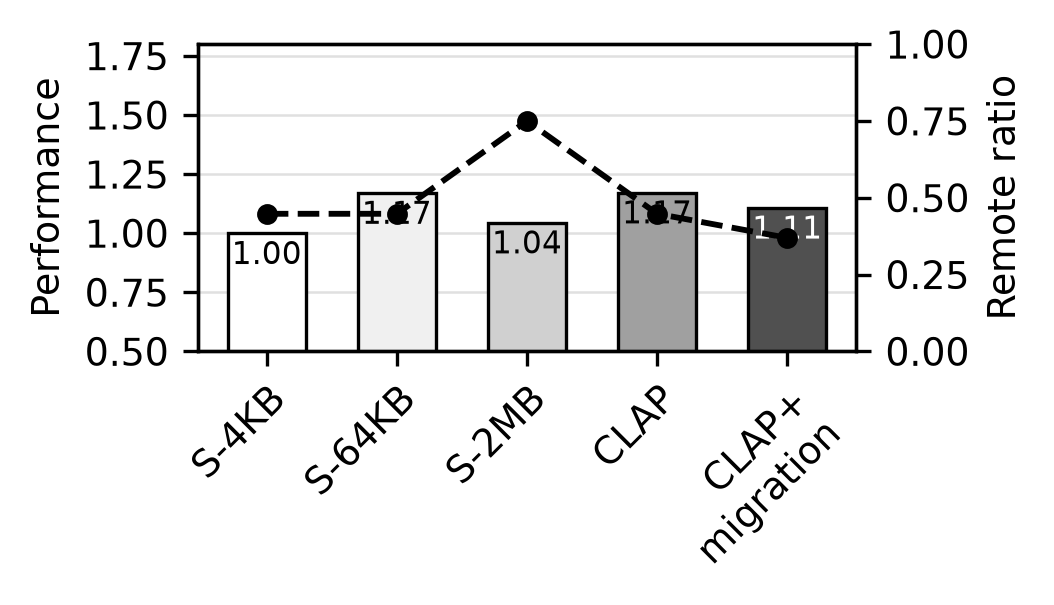
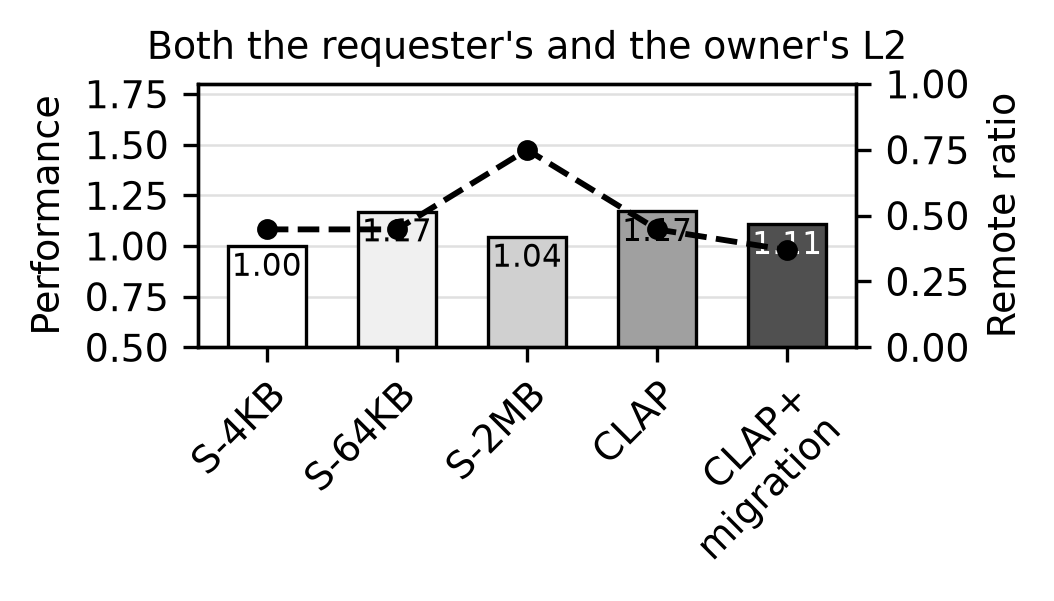
exp: title the remote-caching Fig. 20 plots by caching side
rc_req_side_* plots (-enable_mem_side 0) are titled "Both the
requester's and the owner's L2": the requester's L2 caches remote data
and the owner serves arriving requests through its own L2.
rc_res_side_* (1) are titled "Owner's L2 only". The script also takes
--workload and normalizes to the first config present (S-4KB, or
S-64KB without it), which the committed rc_*_L2_4MB figures were
already made with.

diff --git a/exp/plot_fig20.py b/exp/plot_fig20.py
@@ -3,9 +3,9 @@
 # requires-python = ">=3.9"
 # dependencies = ["matplotlib"]
 # ///
-"""Plot a CLAP (MICRO'25) Fig. 20-style figure from exp/logs/<tag>/GEMM_REUSE/.
+"""Plot a CLAP (MICRO'25) Fig. 20-style figure from exp/logs/<tag>/<workload>/ (default GEMM_REUSE).
 
-Bars: performance normalized to S-64KB (cycles(s64k) / cycles(config)).
+Bars: performance normalized to the first config present (S-4KB; S-64KB for tags without it).
 Line: remote access ratio ("remote access ratio" from the MCM stat block, whole run).
 
     uv run plot_fig20.py --tag pm_gemm_full
@@ -23,10 +23,10 @@ matplotlib.use("Agg")
 import matplotlib.pyplot as plt
 
 EXP_DIR = os.path.dirname(os.path.abspath(__file__))
-WORKLOAD = "GEMM_REUSE"
 # (config dir, x label, fill, hatch) - grayscale like the paper
 BARS = [
-    ("s64k", "S-64KB", "#ffffff", ""),
+    ("s4k", "S-4KB", "#ffffff", ""),
+    ("s64k", "S-64KB", "#f0f0f0", ""),
     ("s2m", "S-2MB", "#d0d0d0", ""),
     ("clap", "CLAP", "#a0a0a0", ""),
     ("clapmig", "CLAP+\nmigration", "#505050", ""),
@@ -34,6 +34,8 @@ BARS = [
 CYCLES = re.compile(r"^gpu_tot_sim_cycle = (\d+)", re.M)
 KCYCLES = re.compile(r"^gpu_sim_cycle = (\d+)", re.M)
 MIGRATIONS = re.compile(r"^page_migration_completed = (\d+)", re.M)
+# remote-caching runs: rc_req_side_* (-enable_mem_side 0), rc_res_side_* (1)
+TITLES = {"req_side": "Both the requester's and the owner's L2", "res_side": "Owner's L2 only"}
 REMOTE = re.compile(r"^remote access ratio\s*= ([\d.]+)", re.M)
 
 
@@ -52,27 +54,34 @@ def parse(log):
 def main():
     ap = argparse.ArgumentParser(description=__doc__, formatter_class=argparse.RawDescriptionHelpFormatter)
     ap.add_argument("--tag", default="pm_gemm_full")
+    ap.add_argument("--workload", default="GEMM_REUSE")
     args = ap.parse_args()
 
-    wdir = os.path.join(EXP_DIR, "logs", args.tag, WORKLOAD)
-    stats = {cfg: parse(os.path.join(wdir, cfg, "sim.log")) for cfg, *_ in BARS}
-    base = stats["s64k"][0]
-    perf = [base / stats[cfg][0] for cfg, *_ in BARS]
-    remote = [stats[cfg][1] for cfg, *_ in BARS]
+    wdir = os.path.join(EXP_DIR, "logs", args.tag, args.workload)
+    bars = [b for b in BARS if os.path.exists(os.path.join(wdir, b[0], "sim.log"))]
+    stats = {cfg: parse(os.path.join(wdir, cfg, "sim.log")) for cfg, *_ in bars}
+    base_cfg = bars[0][0]
+    base = stats[base_cfg][0]
+    perf = [base / stats[cfg][0] for cfg, *_ in bars]
+    remote = [stats[cfg][1] for cfg, *_ in bars]
 
     plt.rcParams.update({"font.size": 9, "font.family": "DejaVu Sans"})
     fig, ax = plt.subplots(figsize=(3.6, 2.1))
-    x = range(len(BARS))
-    ax.bar(x, perf, width=0.6, color=[b[2] for b in BARS],
+    x = range(len(bars))
+    ax.bar(x, perf, width=0.6, color=[b[2] for b in bars],
            edgecolor="black", linewidth=0.8, zorder=2)
-    for xi, p, b in zip(x, perf, BARS):  # value inside the bar top, clear of the line
+    for xi, p, b in zip(x, perf, bars):  # value inside the bar top, clear of the line
         ink = "white" if b[2] in ("#505050",) else "black"
         ax.text(xi, p - 0.03, f"{p:.2f}", ha="center", va="top", fontsize=7.5, color=ink)
-    ax.set_ylim(0.5, 1.8)
-    ax.set_yticks([0.5, 0.75, 1.0, 1.25, 1.5, 1.75])
+    top = max(1.8, max(perf) * 1.1)
+    ax.set_ylim(0.5, top)
+    ax.set_yticks([t / 4 for t in range(2, int(top * 4) + 1)])
     ax.set_ylabel("Performance")
+    for key, title in TITLES.items():
+        if key in args.tag:
+            ax.set_title(title, fontsize=9)
     ax.set_xticks(list(x))
-    ax.set_xticklabels([b[1] for b in BARS], rotation=45, ha="right", rotation_mode="anchor")
+    ax.set_xticklabels([b[1] for b in bars], rotation=45, ha="right", rotation_mode="anchor")
     ax.yaxis.grid(True, color="#e0e0e0", linewidth=0.6, zorder=0)
     ax.set_axisbelow(True)
 
@@ -93,14 +102,14 @@ def main():
     with open(out, "w", newline="") as f:
         w = csv.writer(f)
         w.writerow(["config", "kernel1_cycles", "kernel2_cycles", "total_cycles",
-                    "perf_vs_s64k", "remote_ratio", "migrations"])
-        for (cfg, *_), p, r in zip(BARS, perf, remote):
+                    f"perf_vs_{base_cfg}", "remote_ratio", "migrations"])
+        for (cfg, *_), p, r in zip(bars, perf, remote):
             tot, _, kcyc, mig = stats[cfg]
             w.writerow([cfg, kcyc[0], kcyc[1], tot, f"{p:.3f}", f"{r:.3f}", mig])
     print(f"wrote {out}")
 
     print(f"\n{'config':10s} {'cycles':>10s} {'perf':>6s} {'remote':>7s}")
-    for (cfg, *_), p, r in zip(BARS, perf, remote):
+    for (cfg, *_), p, r in zip(bars, perf, remote):
         print(f"{cfg:10s} {stats[cfg][0]:>10d} {p:>6.3f} {r:>7.3f}")
 
 
